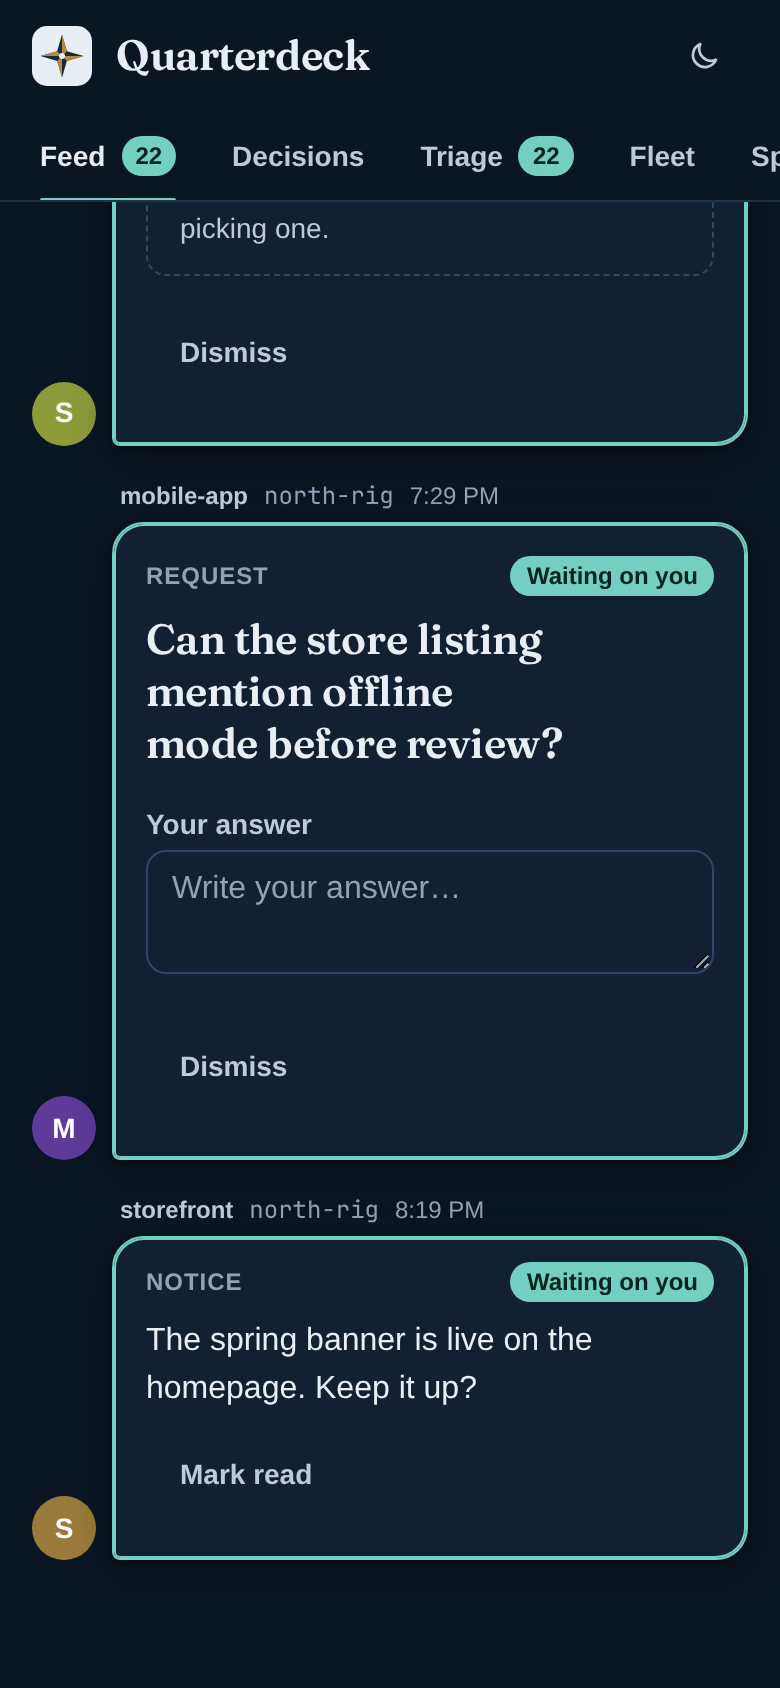
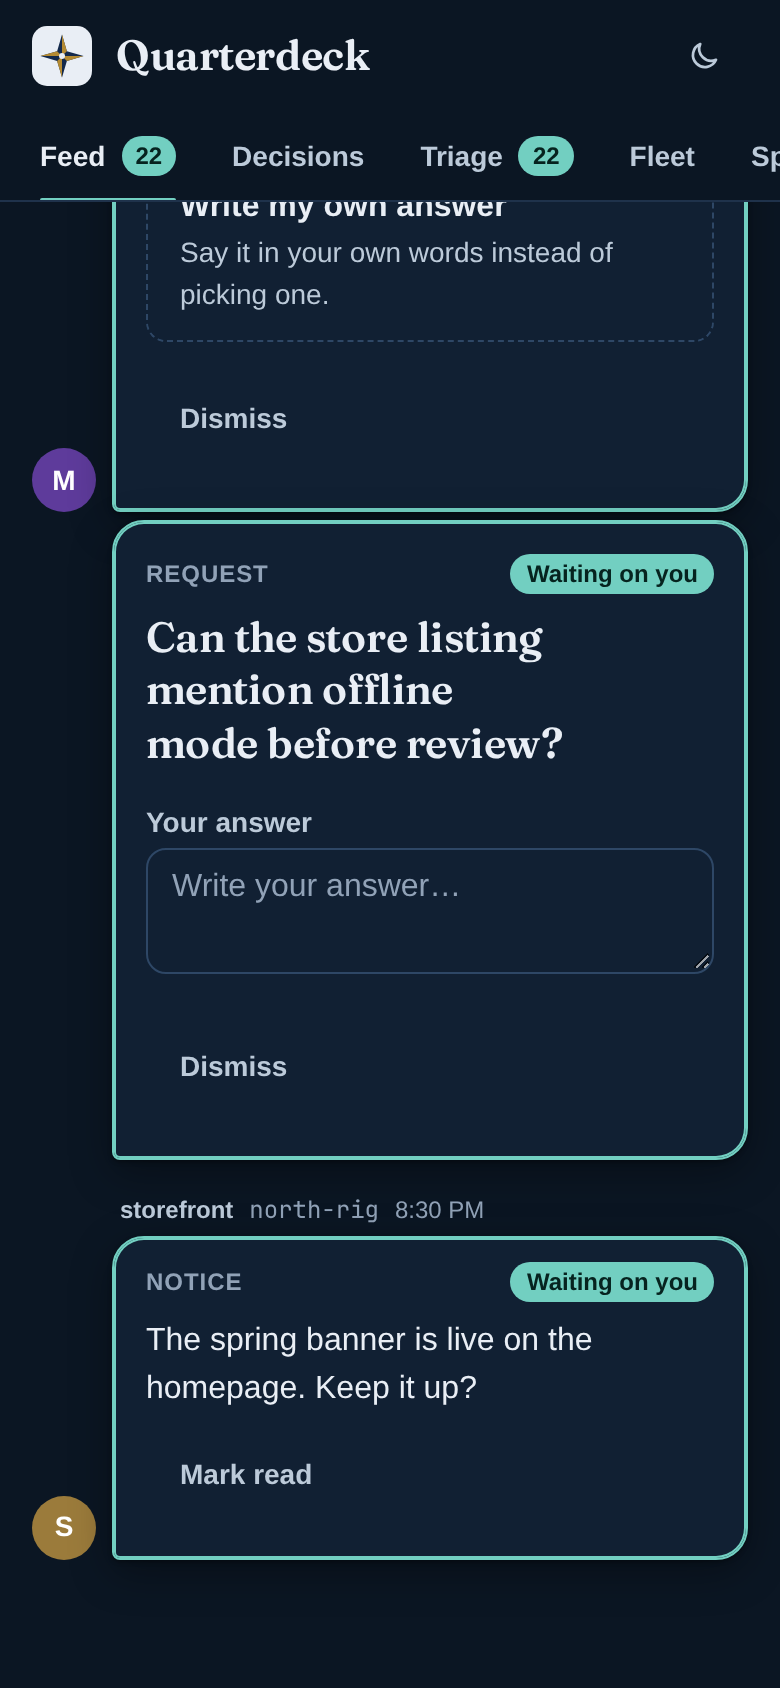
Fix the feed e2e: held messages arrive stamped, and the decision is one no suite shares
The pill test failed in CI when decisions ran first. The decisions suite
answers the shard-count ask, so the Feed's newest time became that answer's
real time, and the held fixture messages (stamped at the fixture clock) were
never newer than it. A held message is now stamped when it first arrives.

Serial mode then skipped the other feed tests after the failure, so the
in-place decision test never ran. It now answers the Android onboarding ask,
which no other suite touches, and the feed and decisions suites pass together
under CI settings (17 of 17).

Feed screenshots refreshed for the new decision.

diff --git a/src/lib/server/source.ts b/src/lib/server/source.ts
@@ -225,6 +225,8 @@ export class FixtureSource implements Source {
 	readonly #now: () => number;
 	/** When this process first read the feed; see feed(). */
 	#feedBase: number | undefined;
+	/** When each held feed message first arrived; see feed(). */
+	readonly #arrivals = new Map<string, number>();
 
 	constructor(dir: string, now: () => number = Date.now) {
 		this.#dir = dir;
@@ -290,11 +292,18 @@ export class FixtureSource implements Source {
 		const raw = await this.#read(FEED_FIXTURE, this.#feedBase);
 		if (raw === null) return { status: 'unsupported' };
 		const sent = rec(raw)?.entries;
-		const arrived = (Array.isArray(sent) ? sent : []).filter(
-			(e) =>
-				typeof rec(e)?.arrives_in_s !== 'number' ||
-				(rec(e)!.arrives_in_s as number) * 1000 <= elapsed
-		);
+		const arrived: unknown[] = [];
+		for (const e of Array.isArray(sent) ? sent : []) {
+			const delay = rec(e)?.arrives_in_s;
+			if (typeof delay !== 'number') {
+				arrived.push(e);
+			} else if (delay * 1000 <= elapsed) {
+				// A held message is stamped when it first arrives, so it is newer than anything before it.
+				const id = String(rec(e)?.id);
+				if (!this.#arrivals.has(id)) this.#arrivals.set(id, this.#now());
+				arrived.push({ ...(rec(e) ?? {}), created_ms: this.#arrivals.get(id) });
+			}
+		}
 		const visible = parseFeed({ entries: arrived })
 			.entries.filter((e) => query.include_ship_mail || !isShipToShip(e))
 			.filter(

diff --git a/e2e/feed.e2e.ts b/e2e/feed.e2e.ts
@@ -65,16 +65,16 @@ test('a decision is answered in place, with a confirm step, and the reply appear
 	page
 }) => {
 	await openFeed(page);
-	const ask = page.locator('li.msg[data-entry="f0013-shard-count"]');
+	const ask = page.locator('li.msg[data-entry="f0007-onboarding-android"]');
 	const send = ask.getByRole('button', { name: 'Send answer' });
 	await expect(send).toBeHidden();
 
-	await ask.getByRole('radio', { name: /Eight shards/ }).check();
+	await ask.getByRole('radio', { name: /Android first/ }).check();
 	await expect(send).toBeVisible();
 	await send.click();
 
 	await expect(ask).toHaveAttribute('data-open', 'false');
-	const reply = page.locator('li.msg.mine').filter({ hasText: 'Eight shards' });
+	const reply = page.locator('li.msg.mine').filter({ hasText: 'Android first' });
 	await expect(reply).toBeVisible();
 	await expect(reply).toContainText('Logged, not sent');
 });

diff --git a/e2e/screenshots.e2e.ts b/e2e/screenshots.e2e.ts
@@ -347,8 +347,8 @@ test.describe('feed phone', () => {
 
 	test('a decision answered in place', async ({ page }) => {
 		await openFeed(page, 'light');
-		const ask = page.locator('li.msg[data-entry="f0013-shard-count"]');
-		await ask.getByRole('radio', { name: /Eight shards/ }).check();
+		const ask = page.locator('li.msg[data-entry="f0007-onboarding-android"]');
+		await ask.getByRole('radio', { name: /Android first/ }).check();
 		await ask.evaluate((el) =>
 			window.scrollTo(0, el.getBoundingClientRect().top + window.scrollY - 120)
 		);
